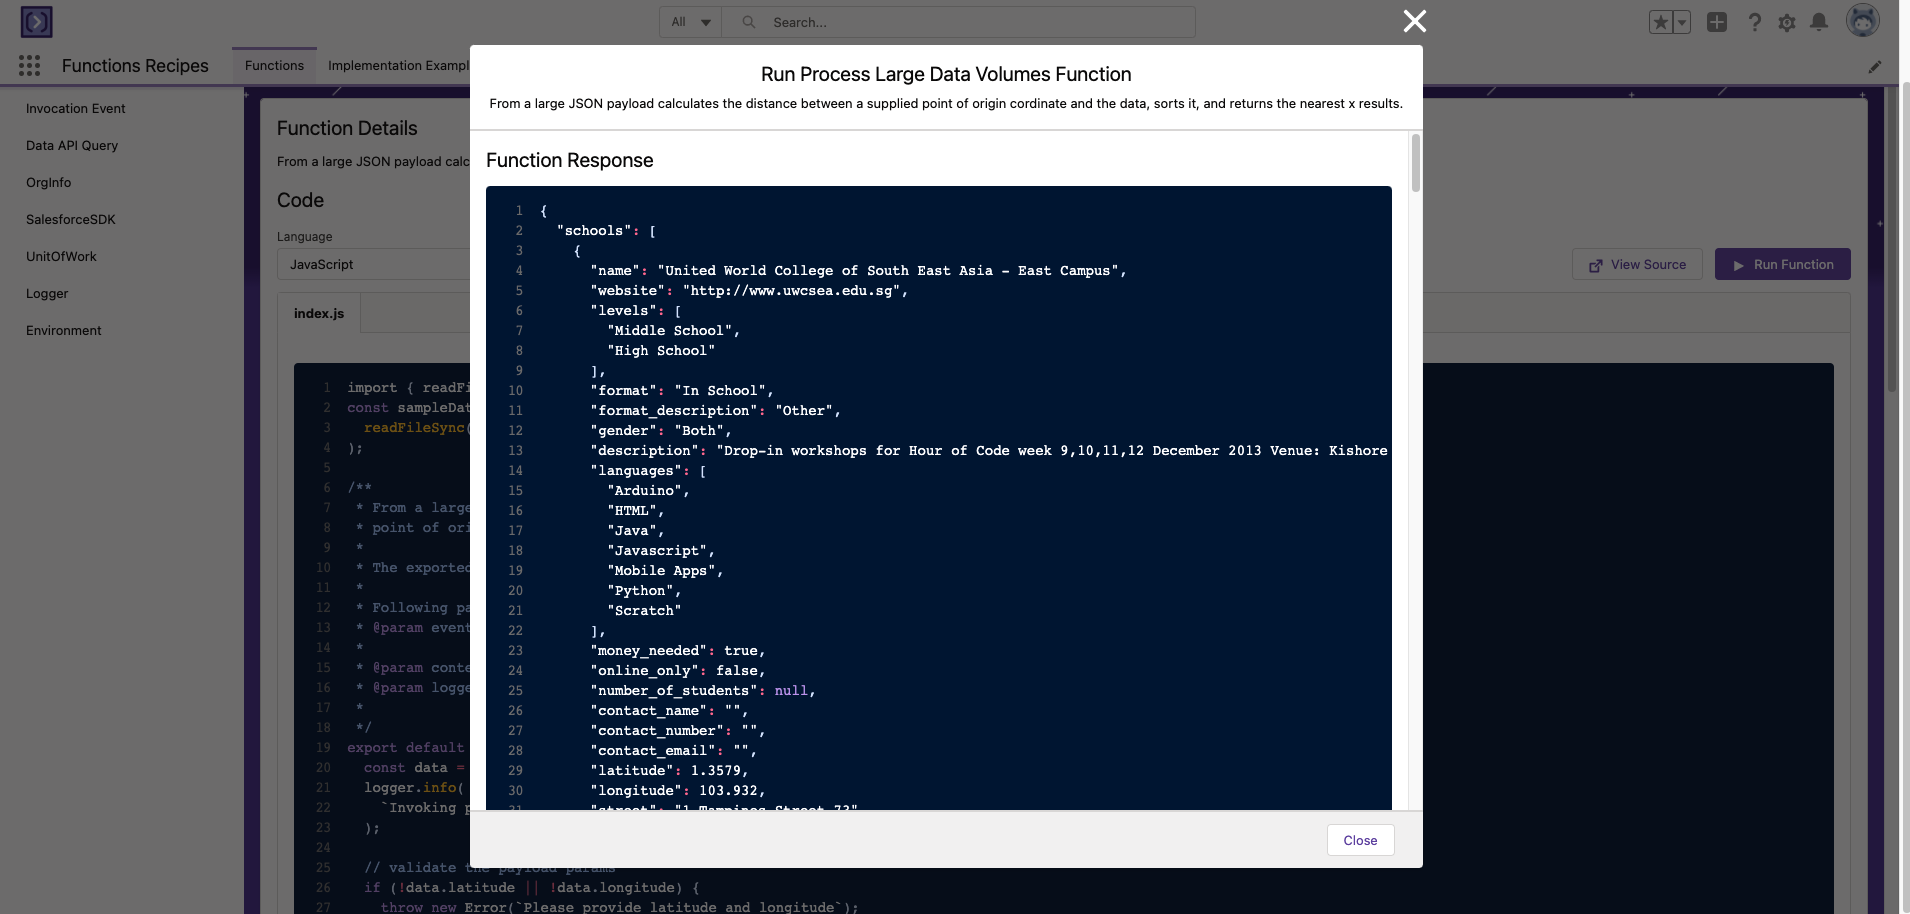
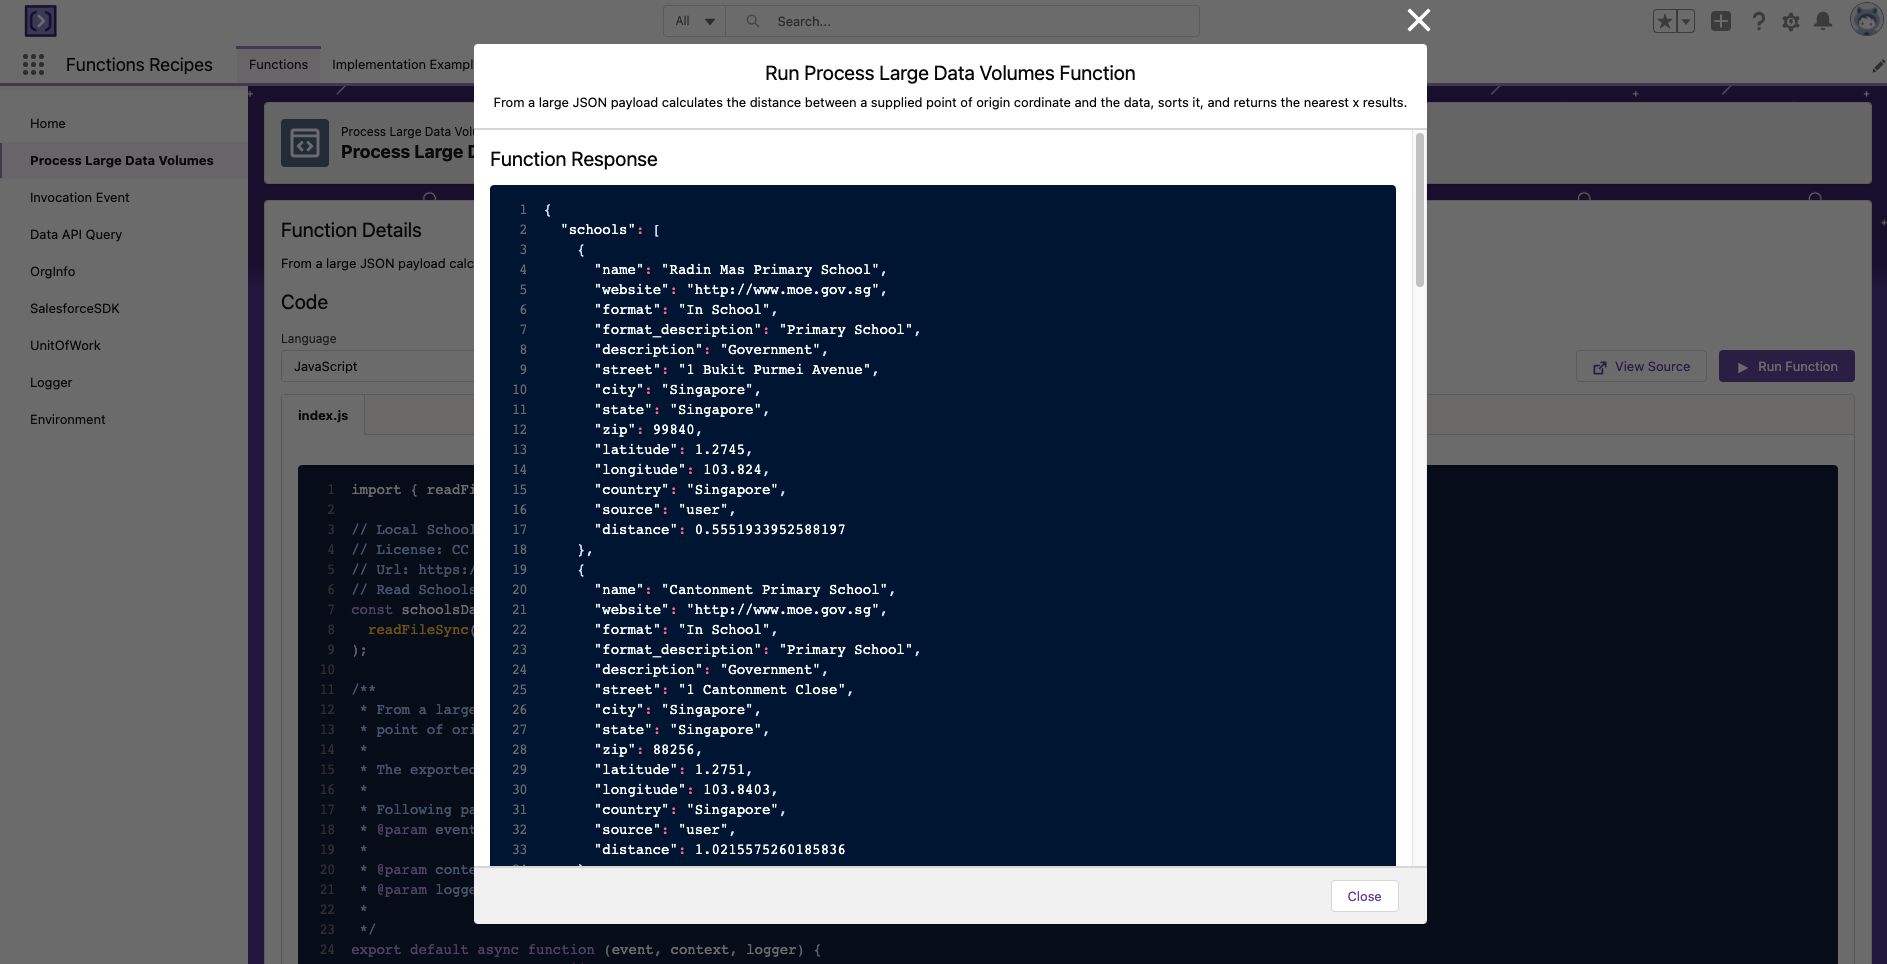
refactor: updated functions with sg primary schools

diff --git a/src/posts/3-sf-functions.md b/src/posts/3-sf-functions.md
@@ -35,6 +35,8 @@ Also, with Salesforce Functions, customers now can push past previously [org gov
 
 I had the opportunity to play around with one of the [sample demo code here on Github](https://github.com/trailheadapps/functions-recipes). In there, one of the sample code which was super cool was the ability to run functions (using either JavaScript or Java) which looks through a [large dataset of schools](https://code.org/learn/find-school/json), and finds the nearest top x schools taking reference to my location.
 
+I did a little tweak and replaced the sample dataset with the list of Singapore's primary schools, and I was able to easily find the nearest primary schools from my current location! This could be super useful for parents who are trying to find the nearest primary schools from their homes for Primary 1 registration exercises!
+
 _Note: The dataset is located in the functions-recipes/functions/01_Intro_ProcessLargeData_JS/data/ folder._
 
 By invoking the function, it returns the list in a JSON response, or I could easily have this plotted out on a map very easily! Pretty cool!
